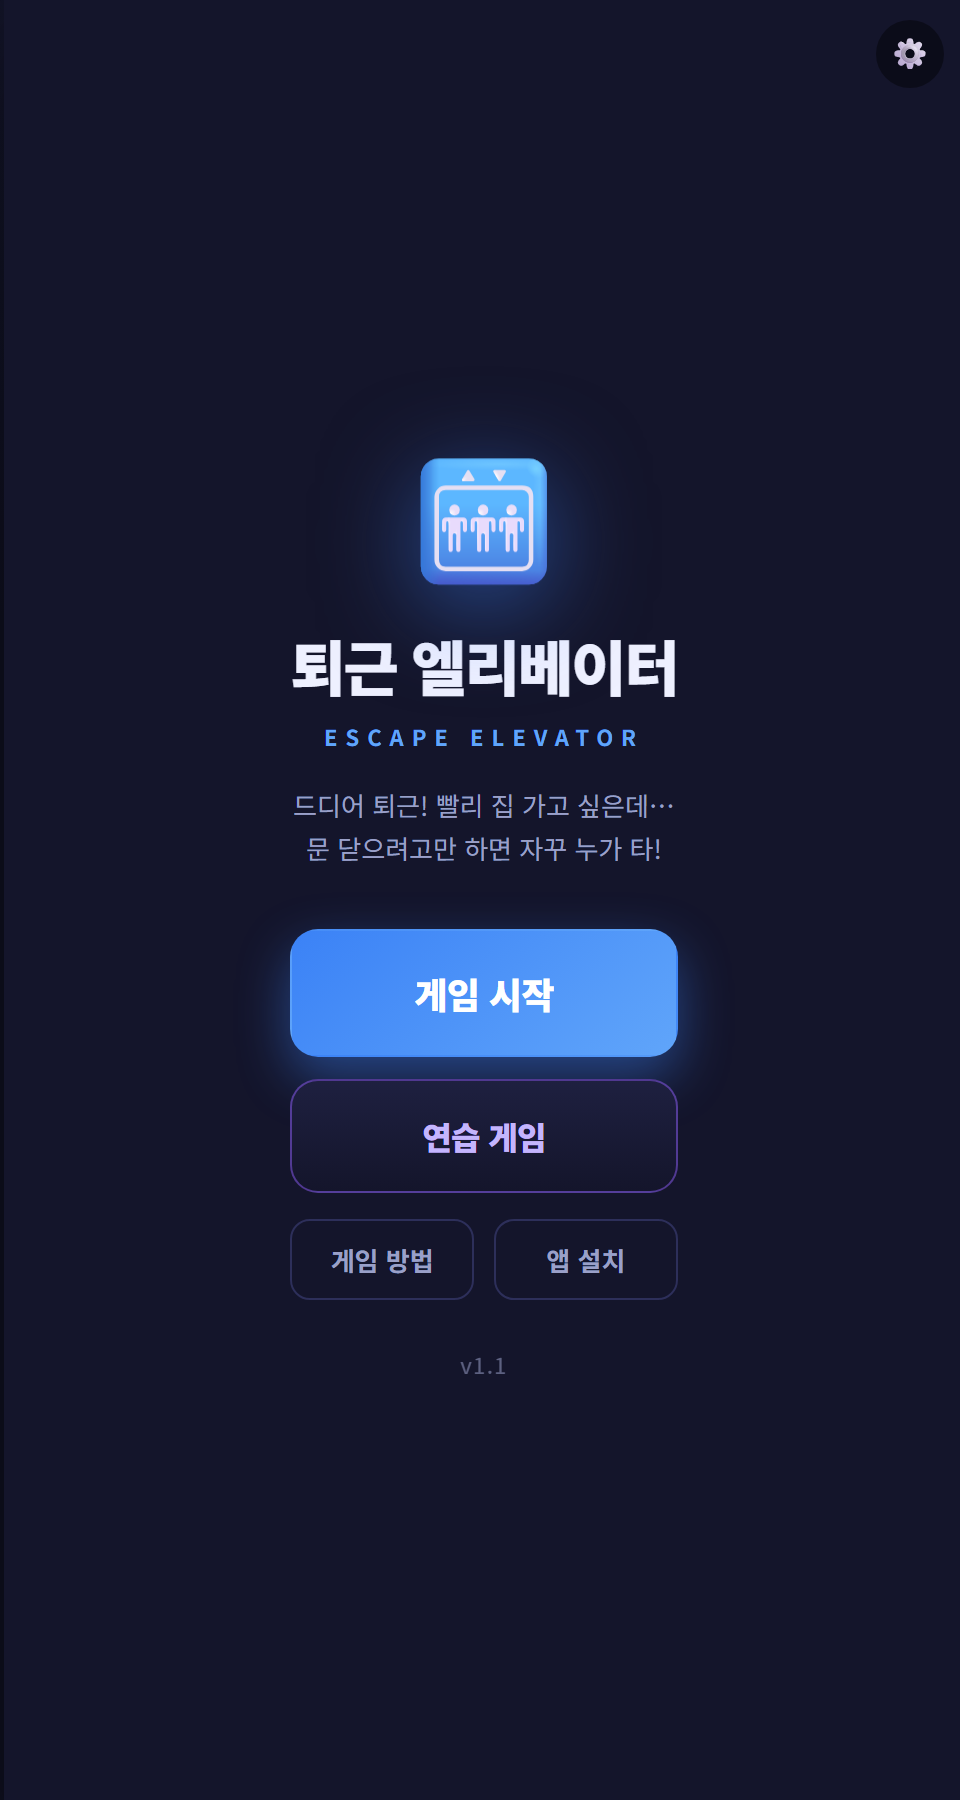
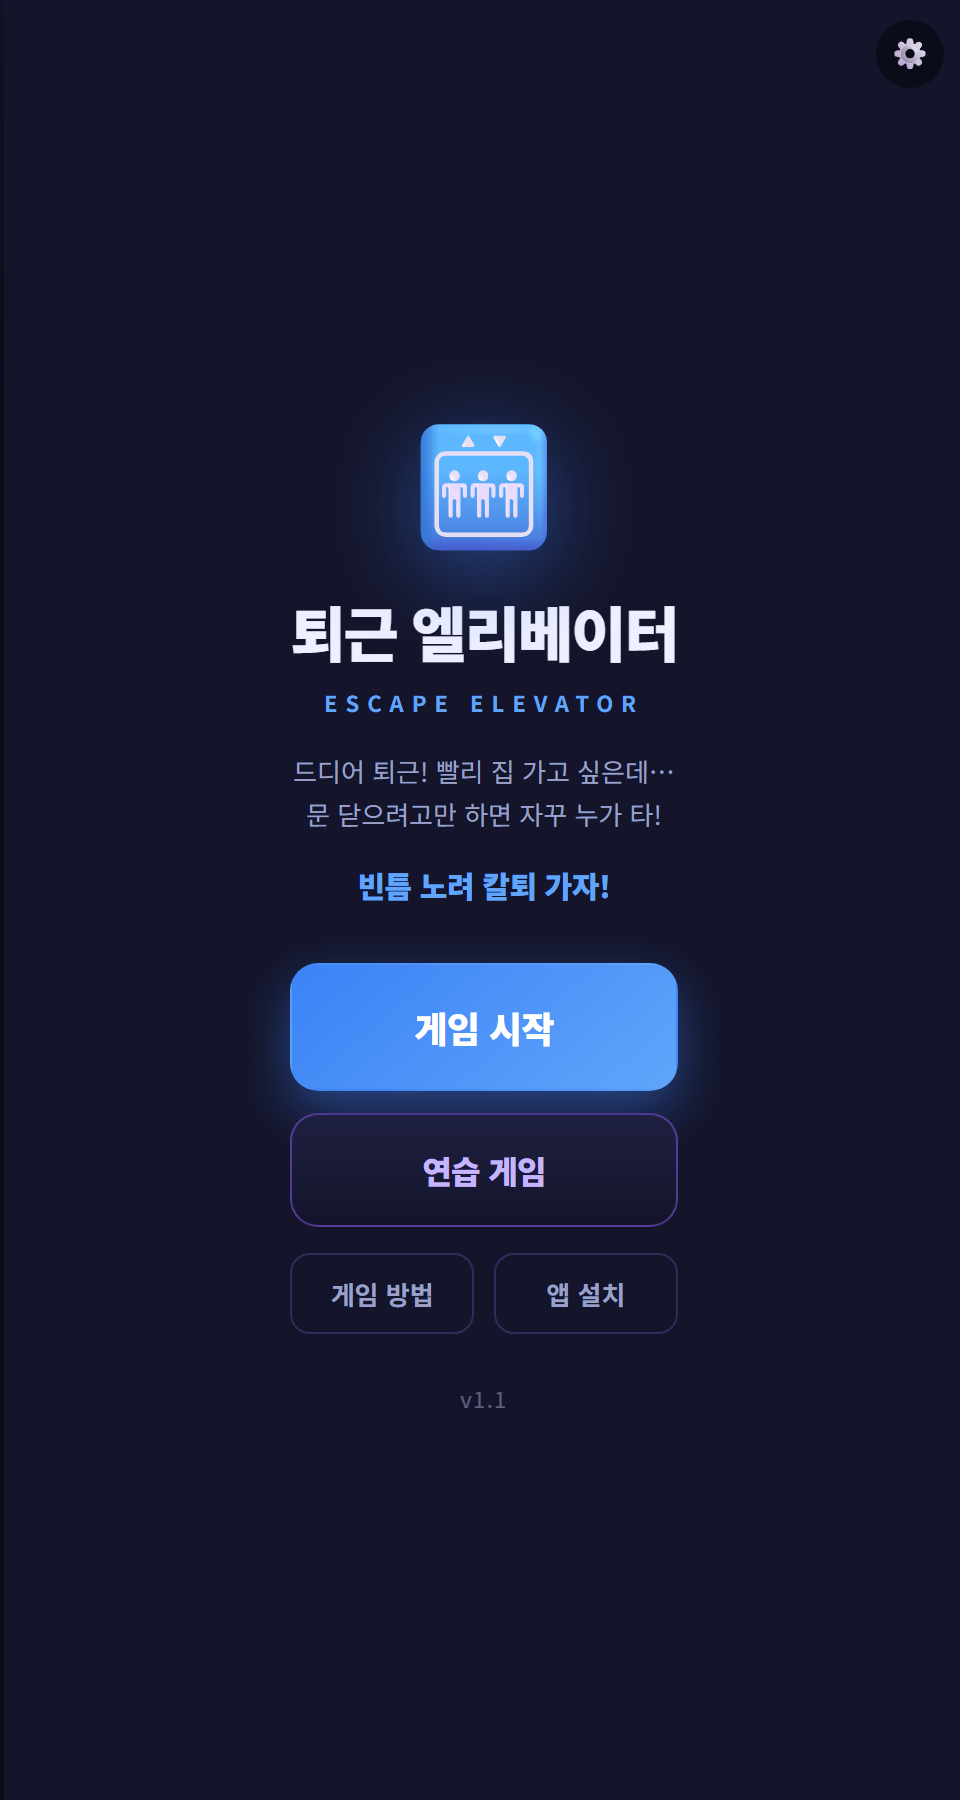
feat: 메인에 CTA 한 줄 추가('빈틈 노려 칼퇴 가자!')

Changed region(s): [[0.2812, 0.2178, 0.7188, 0.7467]]

diff --git a/index.html b/index.html
@@ -32,6 +32,7 @@
       <h1>퇴근 엘리베이터</h1>
       <p class="subtitle">ESCAPE ELEVATOR</p>
       <p class="tagline">드디어 퇴근! 빨리 집 가고 싶은데…<br>문 닫으려고만 하면 자꾸 누가 타!</p>
+      <p class="tag-cta">빈틈 노려 칼퇴 가자!</p>
 
       <div class="menu-actions">
         <button id="btnStart" class="menu-act primary">게임 시작</button>

diff --git a/styles.css b/styles.css
@@ -48,6 +48,7 @@ body{
 #menu h1{font-size:30px;font-weight:900;letter-spacing:-1px;margin-top:2px}
 #menu .subtitle{font-size:11px;letter-spacing:4px;color:var(--accent2);font-weight:700}
 #menu .tagline{color:var(--muted);font-size:13px;line-height:1.65;margin:10px 0 2px;max-width:300px}
+#menu .tag-cta{color:var(--accent2);font-weight:900;font-size:15px;margin:6px 0 0;letter-spacing:-.2px}
 
 /* 메뉴 액션 버튼 (네모 박스 가로 한 줄) */
 .menu-actions{display:flex;flex-direction:column;gap:11px;width:100%;max-width:270px;margin-top:22px}